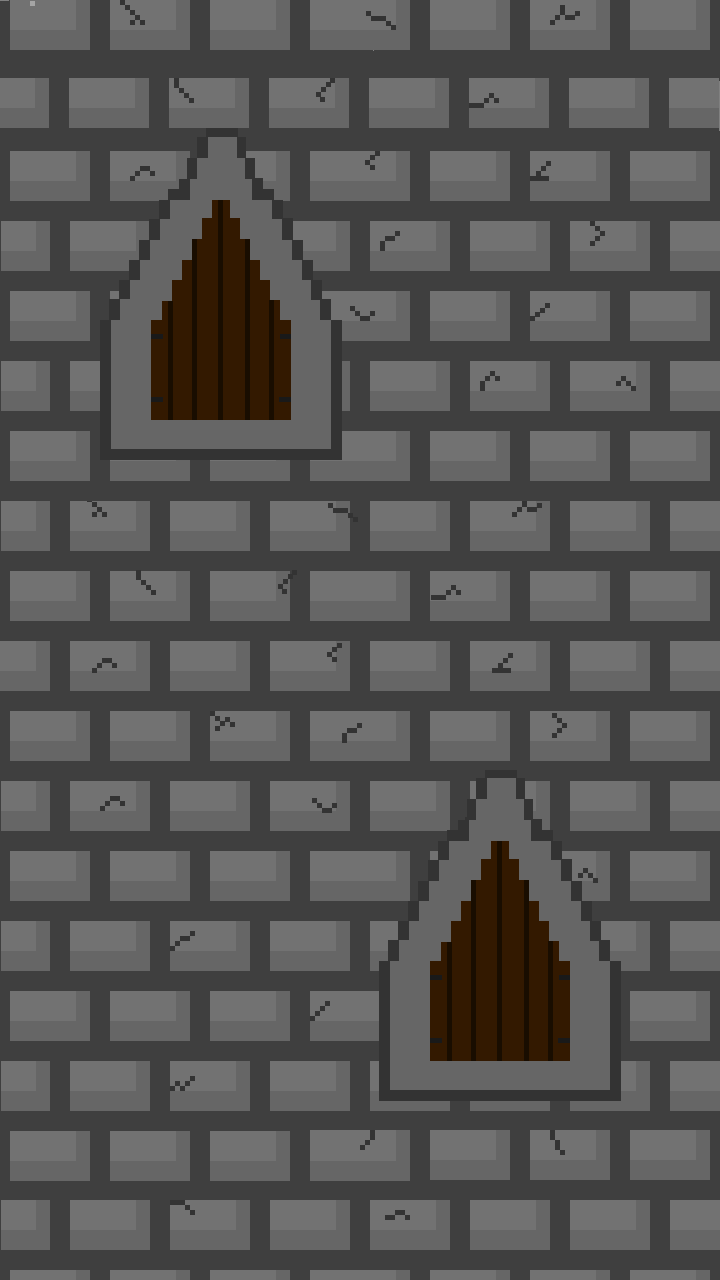
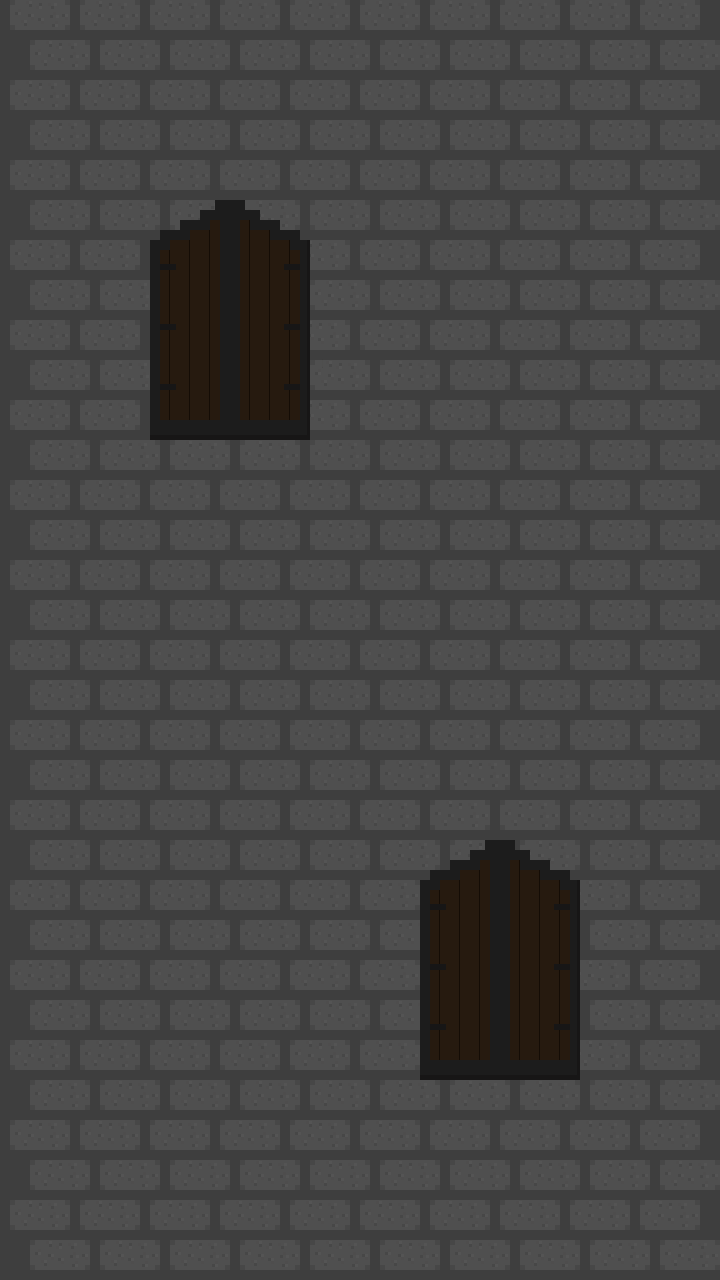
Mejorados backgrounds, floor, agregado cartel para score, solucionado bug de background moviendose sin comenzar juego

diff --git a/PixelJumpingEscape/src/com/lucianosimo/pixeljumpingescape/scene/GameScene.java b/PixelJumpingEscape/src/com/lucianosimo/pixeljumpingescape/scene/GameScene.java
@@ -57,6 +57,7 @@ public class GameScene extends BaseScene implements IOnSceneTouchListener{
 	
 	//HUD sprites
 	private AnimatedSprite fire;
+	private Sprite scoreSign;
 	
 	//Constants	
 	private float screenWidth;
@@ -74,6 +75,7 @@ public class GameScene extends BaseScene implements IOnSceneTouchListener{
 	
 	//Parallax entity
 	private ParallaxEntity backgroundParallaxEntity;
+	private AutoParallaxBackground background;
 	
 	//Decoration
 	private Sprite spider_web;
@@ -115,7 +117,8 @@ public class GameScene extends BaseScene implements IOnSceneTouchListener{
 	
 	//CAMERA VARIABLES
 	private final static int CAMERA_INITIAL_SPEED = -200;
-	private final static int CAMERA_SPEED_INCREMENT = 10;
+	private final static int CAMERA_MAX_SPEED = -600;
+	private final static int CAMERA_SPEED_INCREMENT = 15;
 	
 	//PLAYER VARIABLES
 	private final static int PLAYER_INITIAL_X = 360;
@@ -138,8 +141,8 @@ public class GameScene extends BaseScene implements IOnSceneTouchListener{
 	private final static int CENTER_SPIKES_INITIAL_BLOCKS_TO_APPEAR = 10;
 	private final static int CENTER_SPIKES_BLOCKS_TO_REAPPEAR = 20;
 	private final static int SPIKES_WIDTH = 80;
-	private final static int CENTER_SPIKES_MAX_OFFSET_LEFT = -200;
-	private final static int CENTER_SPIKES_MAX_OFFSET_RIGHT = 200;
+	private final static int CENTER_SPIKES_MAX_OFFSET_LEFT = 190;
+	private final static int CENTER_SPIKES_MAX_OFFSET_RIGHT = 240;
 	//private final static int SPIKES_HEIGHT = 128;
 	//private final static int CENTER_SPIKES_WIDTH = 75;
 	//private final static int CENTER_SPIKES_HEIGHT = 75;
@@ -151,7 +154,7 @@ public class GameScene extends BaseScene implements IOnSceneTouchListener{
 	//WALL AND FLOOR VARIABLES
 	private final static int WALL_WIDTH = 100;
 	private final static int WALL_HEIGHT = 128;
-	private final static int FLOOR_HEIGHT = 256;
+	private final static int FLOOR_HEIGHT = 36;
 	
 	//BUTTONS VARIABLES
 	private final static int BUTTON_WIDTH = 200;
@@ -168,9 +171,9 @@ public class GameScene extends BaseScene implements IOnSceneTouchListener{
 		createHud();
 		createBackground();
 		createPhysics();
+		createEnemies();
 		createPlayer();
 		createWalls();
-		createEnemies();
 		createWindows();
 		GameScene.this.setOnSceneTouchListener(this);
 		//DebugRenderer debug = new DebugRenderer(physicsWorld, vbom);
@@ -198,19 +201,21 @@ public class GameScene extends BaseScene implements IOnSceneTouchListener{
 	private void createHud() {
 		gameHud = new HUD();
 		
-		scoreText = new Text(screenWidth / 2, 1200, resourcesManager.game_score_font, "0123456789", new TextOptions(HorizontalAlign.LEFT), vbom);
+		scoreSign = new Sprite(screenWidth / 2, screenHeight - 100, resourcesManager.game_score_sign_region, vbom);
+		scoreText = new Text(screenWidth / 2, screenHeight - 145, resourcesManager.game_score_font, "0123456789", new TextOptions(HorizontalAlign.LEFT), vbom);
 		scoreText.setText("0");
 		leftButton = new Rectangle(BUTTON_WIDTH / 2, screenHeight / 2, BUTTON_WIDTH, BUTTON_HEIGHT, vbom) {
 			@Override
 			public boolean onAreaTouched(TouchEvent pSceneTouchEvent,float pTouchAreaLocalX, float pTouchAreaLocalY) {
 				if (pSceneTouchEvent.isActionDown() && player.isOnRightWall() && !player.isOnAir() || player.isInitial() && !player.isDead()) {
 					if (!isGameStarted()) {
+						background.setParallaxChangePerSecond(10);
 						setInitialSpeeds();
 						gameStarted = true;
 					}
 					float yJumpPx = (camera.getCenterY() - screenHeight / 2) + pSceneTouchEvent.getY() - player.getY();
 					if (player.isInitial()) {
-						yJumpPx = (camera.getCenterY() - screenHeight / 2) + pSceneTouchEvent.getY() - player.getY() + FLOOR_HEIGHT;
+						yJumpPx = (camera.getCenterY() - screenHeight / 2) + pSceneTouchEvent.getY() - player.getY() + 256;
 					}
 					float ySpeed = yJumpPx * Y_JUMP_SPEED_MULTIPLIER;
 					player.goToLeftWall(ySpeed);
@@ -224,11 +229,12 @@ public class GameScene extends BaseScene implements IOnSceneTouchListener{
 				if (pSceneTouchEvent.isActionDown() && player.isOnLeftWall() && !player.isOnAir() || player.isInitial() && !player.isDead()) {
 					float yJumpPx = (camera.getCenterY() - screenHeight / 2) + pSceneTouchEvent.getY() - player.getY();
 					if (!isGameStarted()) {
+						background.setParallaxChangePerSecond(10);
 						setInitialSpeeds();
 						gameStarted = true;
 					}
 					if (player.isInitial()) {
-						yJumpPx = (camera.getCenterY() - screenHeight / 2) + pSceneTouchEvent.getY() - player.getY() + FLOOR_HEIGHT;
+						yJumpPx = (camera.getCenterY() - screenHeight / 2) + pSceneTouchEvent.getY() - player.getY() + 256;
 					}
 					float ySpeed = yJumpPx * Y_JUMP_SPEED_MULTIPLIER;
 					player.goToRightWall(ySpeed);
@@ -243,6 +249,7 @@ public class GameScene extends BaseScene implements IOnSceneTouchListener{
 		
 		leftButton.setAlpha(0);
 		rightButton.setAlpha(0);
+		gameHud.attachChild(scoreSign);
 		gameHud.attachChild(scoreText);
 		gameHud.attachChild(leftButton);
 		gameHud.attachChild(rightButton);
@@ -253,7 +260,7 @@ public class GameScene extends BaseScene implements IOnSceneTouchListener{
 	}
 	
 	private void createBackground() {
-		AutoParallaxBackground background = new AutoParallaxBackground(0, 0, 0, 10);
+		background = new AutoParallaxBackground(0, 0, 0, 0);
 		backgroundParallaxEntity = new ParallaxEntity(-10f, new Sprite(screenWidth/2, screenHeight/2, resourcesManager.game_background_region, vbom));
 		background.attachParallaxEntity(backgroundParallaxEntity);
 		this.setBackground(background);
@@ -283,8 +290,10 @@ public class GameScene extends BaseScene implements IOnSceneTouchListener{
 					player.setCurrentTileIndex(1);
 				}
 				if (player.collidesWith(incrementSpeedSensor)) {
-					incrementSpeedSensor.setPosition(incrementSpeedSensor.getX(), incrementSpeedSensor.getY() + screenHeight / 2);
-					incrementCameraSpeed();
+					if (camera.getMaxVelocityY() > CAMERA_MAX_SPEED) {
+						incrementSpeedSensor.setPosition(incrementSpeedSensor.getX(), incrementSpeedSensor.getY() + screenHeight);
+						incrementCameraSpeed();
+					}
 				}
 				if (player.collidesWith(centerBlocksSensor)) {
 					centerBlocksSensor.setPosition(centerBlocksSensor.getX(), centerBlocksSensor.getY() + screenHeight * CENTER_SPIKES_BLOCKS_TO_REAPPEAR);
@@ -371,6 +380,7 @@ public class GameScene extends BaseScene implements IOnSceneTouchListener{
 		Random rand = new Random();
 		int blockOrNo;
 		int centerBlocksOffset;
+		int leftOrRight;
 		int centerBlockHorizontalMove;
 		boolean horizontalMove;
 		long seed;
@@ -413,8 +423,9 @@ public class GameScene extends BaseScene implements IOnSceneTouchListener{
 			}
 		}
 
-		Sprite floor = new Sprite(camera.getCenterX(), FLOOR_HEIGHT / 2, resourcesManager.game_floor_region, vbom);
+		Sprite floor = new Sprite(camera.getCenterX(), 220 + FLOOR_HEIGHT / 2, resourcesManager.game_floor_region, vbom);
 		FixtureDef floor_fixture = PhysicsFactory.createFixtureDef(0, 0, 0);
+		floor_fixture.filter.groupIndex = -1;
 		final Body floor_body = PhysicsFactory.createBoxBody(physicsWorld, floor, BodyType.StaticBody, floor_fixture);
 		floor_body.setUserData("floor_body");
 		GameScene.this.attachChild(floor);
@@ -431,6 +442,8 @@ public class GameScene extends BaseScene implements IOnSceneTouchListener{
 		for (int i = 0; i < centerPositions.size(); i++) {
 			//n = rand.nextInt(max - min + 1) + min;
 			centerBlocksOffset = rand.nextInt(CENTER_SPIKES_MAX_OFFSET_RIGHT - CENTER_SPIKES_MAX_OFFSET_LEFT + 1) + CENTER_SPIKES_MAX_OFFSET_LEFT;
+			leftOrRight = rand.nextInt(2) + 1;
+			centerBlocksOffset = (leftOrRight == 1) ? centerBlocksOffset : -centerBlocksOffset;
 			CenterSpikes centerSpike = new CenterSpikes(screenWidth/2 + centerBlocksOffset, centerPositions.get(i), vbom, camera, physicsWorld);
 			centerSpikes.add(centerSpike);
 			GameScene.this.attachChild(centerSpike);
@@ -509,7 +522,7 @@ public class GameScene extends BaseScene implements IOnSceneTouchListener{
 		whichSpider = rand.nextInt(2) + 1;
 		spiderLeftOrRight = rand.nextInt(2) + 1;
 		
-		switch (2) {
+		switch (whichSpider) {
 		case 1:
 			spider_region = resourcesManager.game_spider_region;
 			break;
@@ -553,7 +566,7 @@ public class GameScene extends BaseScene implements IOnSceneTouchListener{
 		spider.animate(SPIDER_ANIMATE, 0, 1, true);
 		
 		spider_web = new Sprite(spider.getX(), spider.getY(), ResourcesManager.getInstance().game_spider_web_region, vbom);
-		spider_web_line = new Rectangle(spider.getX(), spider.getY(), 3, 1, vbom);
+		spider_web_line = new Rectangle(spider.getX(), spider.getY(), 1, 1, vbom);
 		
 		GameScene.this.attachChild(spider_web_line);
 		GameScene.this.attachChild(spider);
@@ -674,6 +687,10 @@ public class GameScene extends BaseScene implements IOnSceneTouchListener{
 				}
 				
 				if (x1.getBody().getUserData().equals("player") && x2.getBody().getUserData().equals("spider")) {
+					player.killPlayer();
+				}
+				
+				if (x1.getBody().getUserData().equals("spider") && x2.getBody().getUserData().equals("player")) {
 					player.killPlayer();
 				}
 				

diff --git a/PixelJumpingEscape/src/com/lucianosimo/pixeljumpingescape/manager/ResourcesManager.java b/PixelJumpingEscape/src/com/lucianosimo/pixeljumpingescape/manager/ResourcesManager.java
@@ -57,6 +57,7 @@ public class ResourcesManager {
 	
 	//Game HUD
 	public ITiledTextureRegion game_fire_region;
+	public ITextureRegion game_score_sign_region;
 	
 	//Objects
 	public ITextureRegion game_wall_region;
@@ -190,6 +191,7 @@ public class ResourcesManager {
 		
 		//Game HUD
 		game_fire_region = BitmapTextureAtlasTextureRegionFactory.createTiledFromAsset(gameFireTextureAtlas, activity, "game_fire.png", 2, 1);
+		game_score_sign_region = BitmapTextureAtlasTextureRegionFactory.createFromAsset(gameHudTextureAtlas, activity, "game_score_sign.png");
 		
 		//Game animated atlas
 		int player = rand.nextInt(2) + 1;
@@ -210,14 +212,15 @@ public class ResourcesManager {
 			game_right_spikes_region = BitmapTextureAtlasTextureRegionFactory.createFromAsset(gameTextureAtlas, activity, "game_right_spikes.png");
 			game_center_spikes_region = BitmapTextureAtlasTextureRegionFactory.createFromAsset(gameTextureAtlas, activity, "game_center_spikes.png");
 			game_background_region = BitmapTextureAtlasTextureRegionFactory.createFromAsset(gameBackgroundTextureAtlas, activity, "game_background.png");
+			game_floor_region = BitmapTextureAtlasTextureRegionFactory.createFromAsset(gameTextureAtlas, activity, "game_floor.png");
 		} else if (stage == 2) {
 			game_wall_region = BitmapTextureAtlasTextureRegionFactory.createFromAsset(gameTextureAtlas, activity, "game_wall_2.png");
 			game_left_spikes_region = BitmapTextureAtlasTextureRegionFactory.createFromAsset(gameTextureAtlas, activity, "game_left_spikes_2.png");
 			game_right_spikes_region = BitmapTextureAtlasTextureRegionFactory.createFromAsset(gameTextureAtlas, activity, "game_right_spikes_2.png");
 			game_center_spikes_region = BitmapTextureAtlasTextureRegionFactory.createFromAsset(gameTextureAtlas, activity, "game_center_spikes_2.png");
 			game_background_region = BitmapTextureAtlasTextureRegionFactory.createFromAsset(gameBackgroundTextureAtlas, activity, "game_background_2.png");
+			game_floor_region = BitmapTextureAtlasTextureRegionFactory.createFromAsset(gameTextureAtlas, activity, "game_floor.png");
 		}
-		game_floor_region = BitmapTextureAtlasTextureRegionFactory.createFromAsset(gameTextureAtlas, activity, "game_floor.png");
 		game_spider_web_region = BitmapTextureAtlasTextureRegionFactory.createFromAsset(gameTextureAtlas, activity, "game_spider_web.png");
 		
 		
@@ -257,7 +260,7 @@ public class ResourcesManager {
 		FontFactory.setAssetBasePath("fonts/game/");
 		
 		final ITexture game_score_texture = new BitmapTextureAtlas(activity.getTextureManager(), 256, 256, TextureOptions.BILINEAR_PREMULTIPLYALPHA);
-		game_score_font = FontFactory.createStrokeFromAsset(activity.getFontManager(), game_score_texture, activity.getAssets(), "november.ttf", 50, true, Color.BLACK_ARGB_PACKED_INT, 0.5f, Color.BLACK_ARGB_PACKED_INT);
+		game_score_font = FontFactory.createStrokeFromAsset(activity.getFontManager(), game_score_texture, activity.getAssets(), "november.ttf", 50, true, Color.WHITE_ARGB_PACKED_INT, 0.5f, Color.BLACK_ARGB_PACKED_INT);
 		game_score_font.load();
 	}
 	

diff --git a/PixelJumpingEscape/src/com/lucianosimo/pixeljumpingescape/object/RightSpikes.java b/PixelJumpingEscape/src/com/lucianosimo/pixeljumpingescape/object/RightSpikes.java
@@ -23,7 +23,7 @@ public class RightSpikes extends Sprite{
 	
 	private void createPhysics(final Camera camera, PhysicsWorld physicsWorld) {
 		fixture = PhysicsFactory.createFixtureDef(0, 0, 0);
-		//fixture.filter.groupIndex = -1;
+		fixture.filter.groupIndex = -1;
 		body = PhysicsFactory.createBoxBody(physicsWorld, this, BodyType.StaticBody, fixture);
 		body.setUserData("rightSpikes");
 		body.setFixedRotation(true);

diff --git a/PixelJumpingEscape/src/com/lucianosimo/pixeljumpingescape/object/RightWall.java b/PixelJumpingEscape/src/com/lucianosimo/pixeljumpingescape/object/RightWall.java
@@ -23,7 +23,7 @@ public class RightWall extends Sprite{
 	
 	private void createPhysics(final Camera camera, PhysicsWorld physicsWorld) {
 		fixture = PhysicsFactory.createFixtureDef(0, 0, 0.75f);
-		//fixture.filter.groupIndex = -1;
+		fixture.filter.groupIndex = -1;
 		body = PhysicsFactory.createBoxBody(physicsWorld, this, BodyType.StaticBody, fixture);
 		body.setUserData("rightWall");
 		body.setFixedRotation(true);

diff --git a/PixelJumpingEscape/src/com/lucianosimo/pixeljumpingescape/object/LeftSpikes.java b/PixelJumpingEscape/src/com/lucianosimo/pixeljumpingescape/object/LeftSpikes.java
@@ -23,7 +23,7 @@ public class LeftSpikes extends Sprite{
 	
 	private void createPhysics(final Camera camera, PhysicsWorld physicsWorld) {
 		fixture = PhysicsFactory.createFixtureDef(0, 0, 0);
-		//fixture.filter.groupIndex = -1;
+		fixture.filter.groupIndex = -1;
 		body = PhysicsFactory.createBoxBody(physicsWorld, this, BodyType.StaticBody, fixture);
 		body.setUserData("leftSpikes");
 		body.setFixedRotation(true);

diff --git a/PixelJumpingEscape/src/com/lucianosimo/pixeljumpingescape/object/LeftWall.java b/PixelJumpingEscape/src/com/lucianosimo/pixeljumpingescape/object/LeftWall.java
@@ -23,7 +23,7 @@ public class LeftWall extends Sprite{
 	
 	private void createPhysics(final Camera camera, PhysicsWorld physicsWorld) {
 		fixture = PhysicsFactory.createFixtureDef(0, 0, 0.75f);
-		//fixture.filter.groupIndex = -1;
+		fixture.filter.groupIndex = -1;
 		body = PhysicsFactory.createBoxBody(physicsWorld, this, BodyType.StaticBody, fixture);
 		body.setUserData("leftWall");
 		body.setFixedRotation(true);
